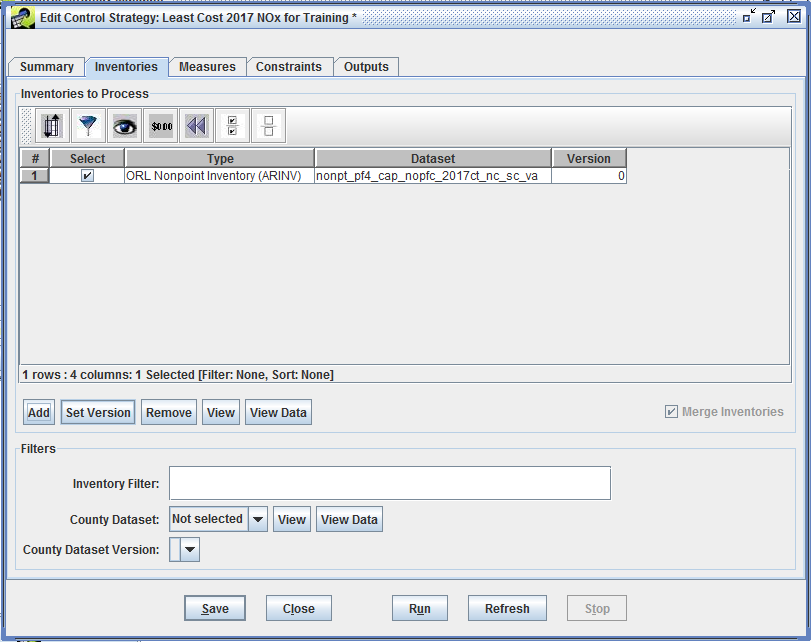
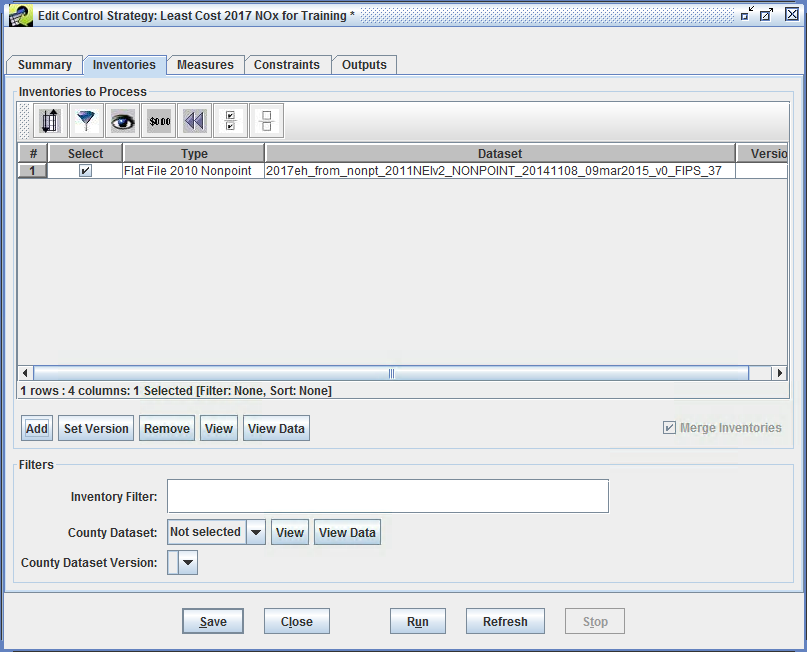
update to FF10 inventories

Changed region(s): [[0.0, 0.0, 1.0, 1.0]]

diff --git a/EMF/deploy/doc/guides/cost/ch4_control_strategy_manager.md b/EMF/deploy/doc/guides/cost/ch4_control_strategy_manager.md
@@ -330,13 +330,13 @@ Target Poll. Reduction (tons)|The absolute emissions reduction achieved for the 
 
 ### Inputs on the Inventories Tab [inputs_on_the_inventories_tab_section] ###
 
-To specify the inputs for the strategy on the Inventories tab ([Figure](#inventories_tab_of_edit_control_strategy_window)), follow the steps in this section. To begin, click on the Inventories tab. The **Inventories to Process** table near the top of the tab lists the emissions inventories for which the control strategy will be run. A control strategy can have one or more emissions inventories as input. Before inventories can be selected for use in the strategy, they must already have been imported into the EMF via the **Import** button on the **File** menu of the EMF Main Window. The CoST application comes preloaded with several ORL inventories for training purposes. The inventories must also have one of the following EMF dataset types: ORL point, ORL nonpoint, ORL nonroad, or ORL onroad. "ORL" stands for "one record per line", meaning that each line of the file has information for a single source-pollutant combination. Point inventories have information about emissions sources with specific locations, which are specified using latitude and longitude. Nonpoint, nonroad, and onroad inventories contain data aggregated to the county level. *Note that IDA inventories are not supported by CoST and need to be converted to ORL prior to use with CoST.* The EMF database stores the data for the emissions inventories along with metadata about the inventories in its PostgreSQL ([http://www.postgresql.org](http://www.postgresql.org)) database.
+To specify the inputs for the strategy on the Inventories tab ([Figure](#inventories_tab_of_edit_control_strategy_window)), follow the steps in this section. To begin, click on the Inventories tab. The **Inventories to Process** table near the top of the tab lists the emissions inventories for which the control strategy will be run. A control strategy can have one or more emissions inventories as input. Before inventories can be selected for use in the strategy, they must already have been imported into the EMF via the **Import** button on the **File** menu of the EMF Main Window. The CoST application comes preloaded with several Flat File (FF10) inventories for training purposes. The inventories must also have one of the following EMF dataset types: point, nonpoint, nonroad, or onroad. Flat File or FF10 format is defined in the SMOKE Manual ([FF10](https://www.cmascenter.org/smoke/documentation/3.5/html/ch08s02s04.html#d0e40589)). "ORL" stands for "one record per line", meaning that each line of the file has information for a single source-pollutant combination. Point inventories have information about emissions sources with specific locations, which are specified using latitude and longitude. Nonpoint, nonroad, and onroad inventories contain data aggregated to the county level. *Note that IDA inventories are not supported by CoST and need to be converted to FF10 or ORL prior to use with CoST.* The EMF database stores the data for the emissions inventories along with metadata about the inventories in its PostgreSQL ([http://www.postgresql.org](http://www.postgresql.org)) database.
 
 24\. To add one or more inventories to the **Inventories to Process** table for the control strategy, click the **Add** button on the Inventories tab. A **Select Inventory Datasets** dialog will appear.
 
-25\. From the Select Inventory Datasets dialog, **select the type of inventory that you wish to show (e.g., ORL Nonpoint)** from the pull-down menu titled "Choose a dataset type" near the top of the dialog. The browser will then show you the inventories of the specified type ([Figure](#selecting_inventory_datasets_for_a_control_strategy)). If there are many inventories and you wish to narrow down the list (e.g., to find inventories for 2017), you can then enter a string in the **Dataset name contains** field and press the Enter key on your keyboard. This will limit the list to those inventories for which their name contains the specified string.
+25\. From the Select Inventory Datasets dialog, **select the type of inventory that you wish to show (e.g., Flat File 2010 Nonpoint)** from the pull-down menu titled "Choose a dataset type" near the top of the dialog. The browser will then show you the inventories of the specified type ([Figure](#selecting_inventory_datasets_for_a_control_strategy)). If there are many inventories and you wish to narrow down the list (e.g., to find inventories for 2017), you can then enter a string in the **Dataset name contains** field and press the Enter key on your keyboard. This will limit the list to those inventories for which their name contains the specified string.
 
-26\. To select an inventory to use for the strategy from the dialog, **click on the name of the inventory with your mouse**. For training purposes, select **nonpt\_pf4\_cap\_nopfc\_2017ct\_nc\_sc\_va** and then click **OK**. When you return to the Inventories tab, you will see the inventory you selected in the list of inventories to process.
+26\. To select an inventory to use for the strategy from the dialog, **click on the name of the inventory with your mouse**. For training purposes, select **2017eh_from_nonpt_2011NEIv2_NONPOINT_20141108_09mar2015_v0_FIPS_37** and then click **OK**. When you return to the Inventories tab, you will see the inventory you selected in the list of inventories to process.
 
 ![Inventories Tab of Edit Control Strategy Window][inventories_tab_of_edit_control_strategy_window]
 
@@ -346,9 +346,9 @@ To specify the inputs for the strategy on the Inventories tab ([Figure](#invento
 
 [selecting_inventory_datasets_for_a_control_strategy]: images/Selecting_Inventory_Datasets_for_a_Control_Strategy.png
 
-27\. Click the **Add** button to add two more inventories. Select the **ORL Point** inventory type from the pull down at the top and add the ptnonipm\_xportfrac\_cap2017ct and ptnonipm\_xportfrac\_cap2017ct\_nc\_sc\_va datasets. To select multiple inventories, **hold down the control key** while clicking the additional inventories.
+27\. Click the **Add** button to add two more inventories. Select the **Flat File 2010 Point** inventory type from the pull down at the top and add the 2014NEIv1\_POINT\_20170216\_nonEGU\_NOX\_gt25 and 2017eh\_from\_ptnonipm\_2011NEIv2\_POINT\_20140913\_revised\_20150115\_10mar2015\_v0\_FIPS\_37 datasets. To select multiple inventories, **hold down the control key** while clicking the additional inventories.
 
-28\. If you wish to remove inventories from the list of inventories to process, click the Select checkboxes that correspond to those inventories, click the **Remove** button ([Figure](#inventories_tab_of_edit_control_strategy_window)), and then click **Yes** when you are asked to confirm deleting of the inventories. For training purposes, remove the **ptnonipm\_xportfrac\_cap2017ct** inventory **so that only the nonpt\_pf4\_cap\_nopfc\_2017ct\_nc\_sc\_va and ptnonipm\_xportfrac\_cap2017ct\_nc\_sc\_va inventories remain in the list**. When asked if you really want to remove the selected inventory, select **Yes**.
+28\. If you wish to remove inventories from the list of inventories to process, click the Select checkboxes that correspond to those inventories, click the **Remove** button ([Figure](#inventories_tab_of_edit_control_strategy_window)), and then click **Yes** when you are asked to confirm deleting of the inventories. For training purposes, remove the **2014NEIv1\_POINT\_20170216\_nonEGU\_NOX\_gt25** inventory so that only the 2017 inventories remain in the list. When asked if you really want to remove the selected inventory, select **Yes**.
 
 29\. Note that multiple versions of the inventories may be available within the EMF. The EMF supports the storing of multiple versions of a dataset to facilitate reproducibility of historical runs. To specify which version of the inventory to use, check the Select checkbox next to a single inventory and then click the **Set Version** button. A dialog will appear that lists the versions available for the selected inventory. Choose the desired version from the menu and then click the **OK** button. You will then see the number of the version you specified in the Version column of the Inventories to Process table. Note that the initial version of a dataset is always version number 0 and for this training exercise the datasets only have one not multiple versions.
 
